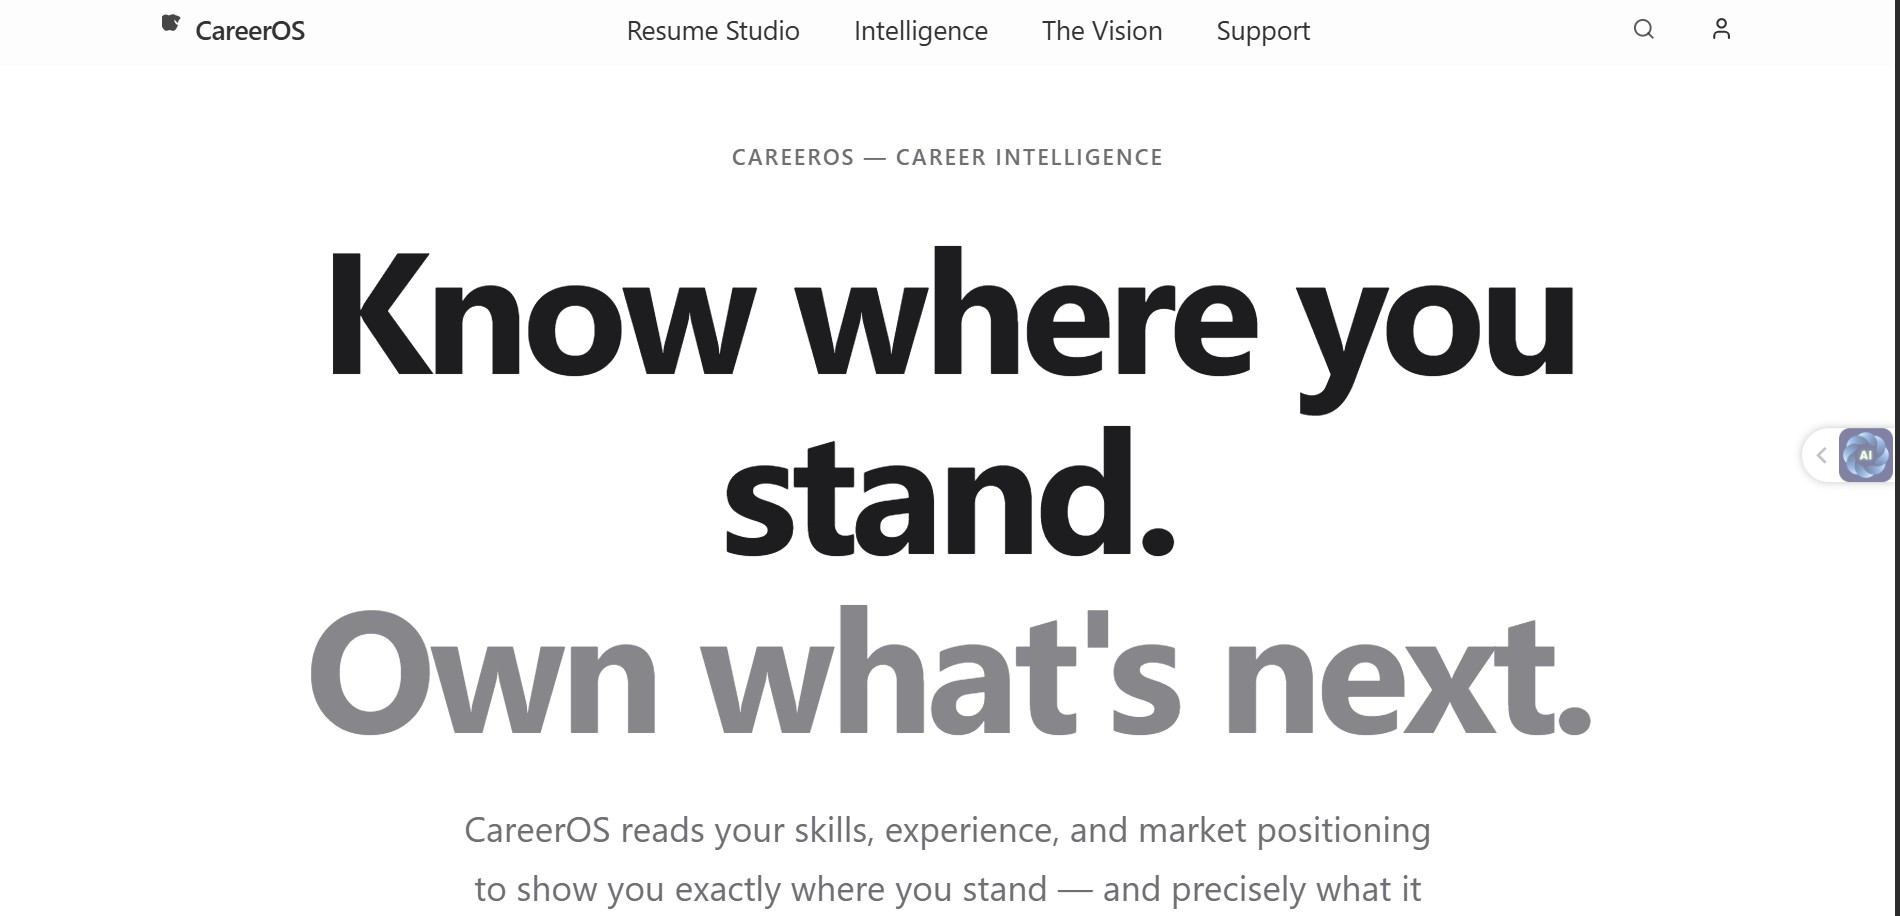
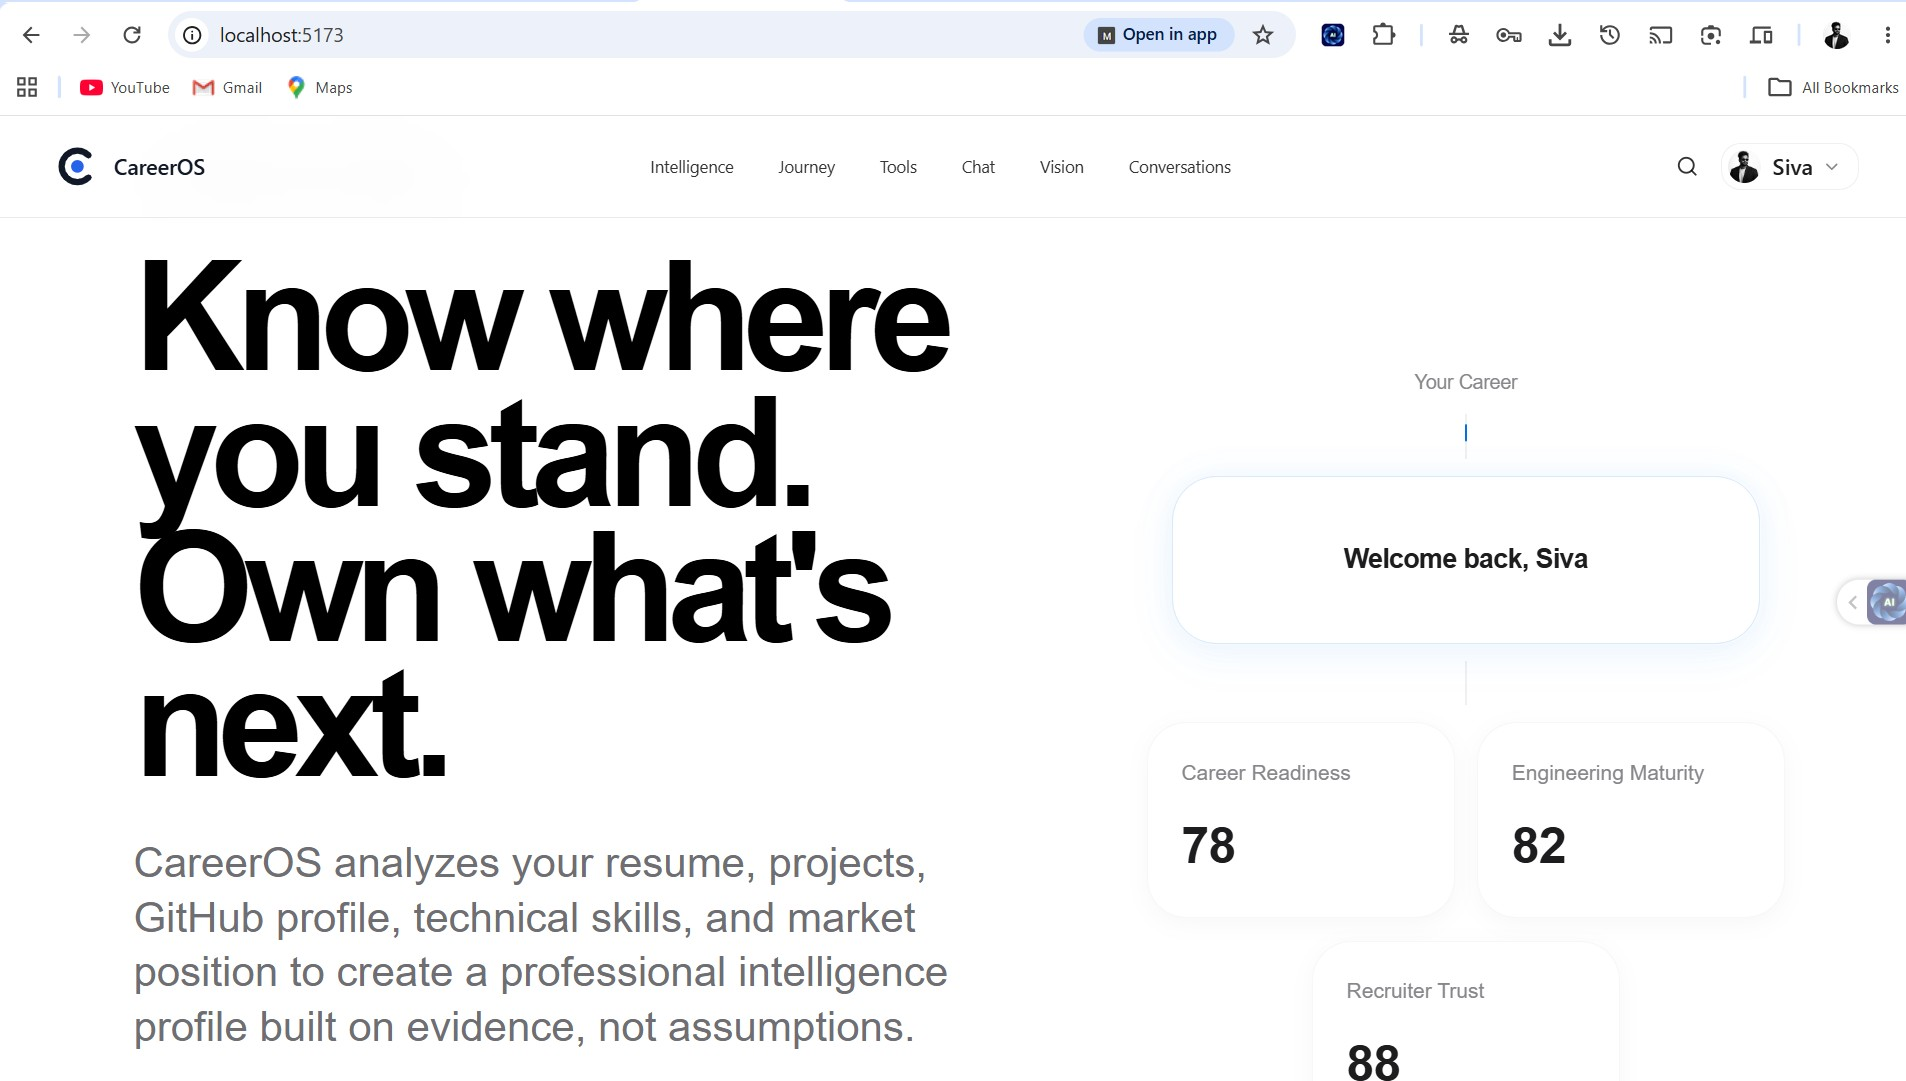
product styled portfolio

diff --git a/src/pages/Overview.jsx b/src/pages/Overview.jsx
@@ -46,18 +46,17 @@ export default function Overview() {
           {/* Eyebrow */}
           <m.p className="phi-eyebrow" variants={fadeUp}>
             <span className="phi-eyebrow-dot" />
-            • AI • SOFTWARE • HUMAN POTENTIAL
+            • AI • SOFTWARE • PRODUCT ENGINEERING
           </m.p>
 
           {/* Headline — the brand statement */}
           <m.h1 className="phi-headline" variants={fadeUp}>
-            Engineering<br />Human Potential.
+            Building<br />Intelligent Futures.
           </m.h1>
 
           {/* Body — one sentence, clear outcome */}
           <m.p className="phi-body" variants={fadeUp}>
-           I build intelligent products that combine artificial intelligence, software engineering, and thoughtful design to transform complexity into opportunity and ideas into impact.
-
+           I build AI-powered products, full-stack systems, and intelligent experiences that transform complex problems into practical solutions. From CareerOS to production-ready applications, I focus on creating technology with measurable impact.
           </m.p>
 
           {/* Signature — philosophical bridge */}
@@ -69,11 +68,11 @@ export default function Overview() {
           <m.div className="phi-meta" variants={fadeUp}>
             <span className="phi-meta-primary">CareerOS Creator</span>
             <span className="phi-meta-sep">/</span>
-            <span>5+ AI Products Shipped</span>
+            <span>5+ AI Products Built</span>
             <span className="phi-meta-sep">/</span>
             <span>4 Internships</span>
             <span className="phi-meta-sep">/</span>
-            <span>AI &amp; Full-Stack Systems</span>
+            <span>AI &amp; Intelligent Systems Engineer | Full Stack Developer</span>
           </m.div>
 
           {/* CTAs */}

diff --git a/index.html b/index.html
@@ -4,8 +4,9 @@
     <meta charset="UTF-8" />
     <meta name="viewport" content="width=device-width, initial-scale=1.0, viewport-fit=cover" />
     <meta name="description" content="Building intelligent systems, AI products, and digital experiences that expand human potential." />
-<title>Bhagavan — Engineering Human Potential</title>
-    <link rel="icon" type="image/png" href="/favicon.png" />
+    <title>Bhagavan — Building Intelligent Futures</title>
+    <link rel="icon" type="image/png" href="/favicon.png?v=2" />
+    <link rel="apple-touch-icon" href="/favicon.png?v=2" />
 
     <!-- ═══ 144Hz PERFORMANCE HINTS ═══ -->
     <!-- Preload the hero video for instant playback -->

diff --git a/src/components/Navbar.jsx b/src/components/Navbar.jsx
@@ -2,6 +2,7 @@ import React, { useState, useEffect, useRef, useCallback, useMemo } from "react"
 import { FileText } from "lucide-react";
 import { useLocation, useNavigate } from "react-router-dom";
 import { m, AnimatePresence } from "framer-motion";
+import logoImg from "../assets/logo.png";
 
 // ─────────────────────────────────────────────
 // NAVIGATION ARCHITECTURE
@@ -737,8 +738,8 @@ export default function Navbar() {
         <div className="nav-inner">
 
           {/* Logo */}
-          <button className="nav-wordmark" onClick={() => go("/overview")}>
-            B
+          <button className="nav-wordmark" onClick={() => go("/overview")} style={{ display: 'flex', alignItems: 'center' }}>
+            <img src={logoImg} alt="Logo" style={{ height: '28px', width: '28px', borderRadius: '6px' }} />
           </button>
 
           {/* Desktop links */}